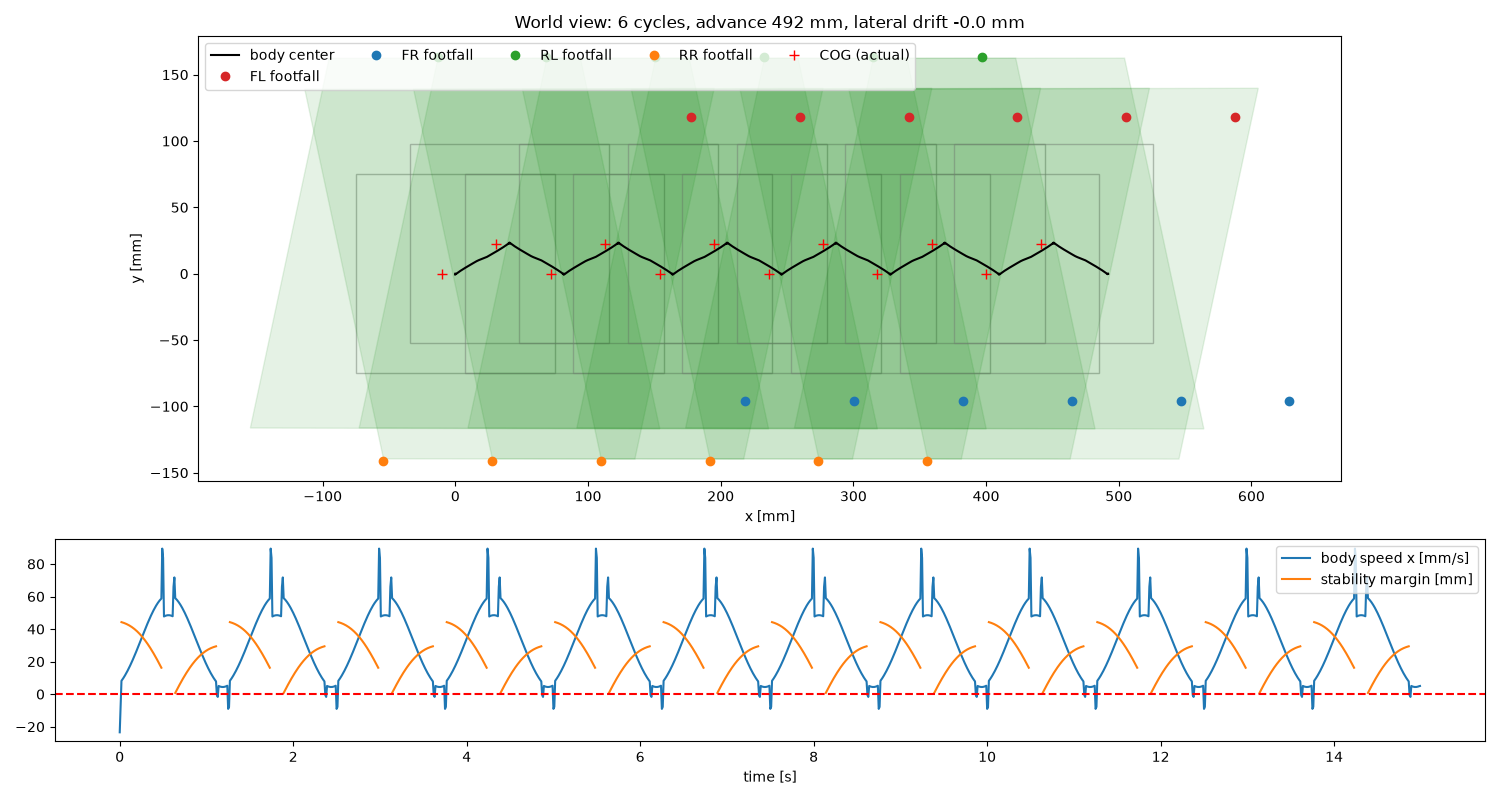
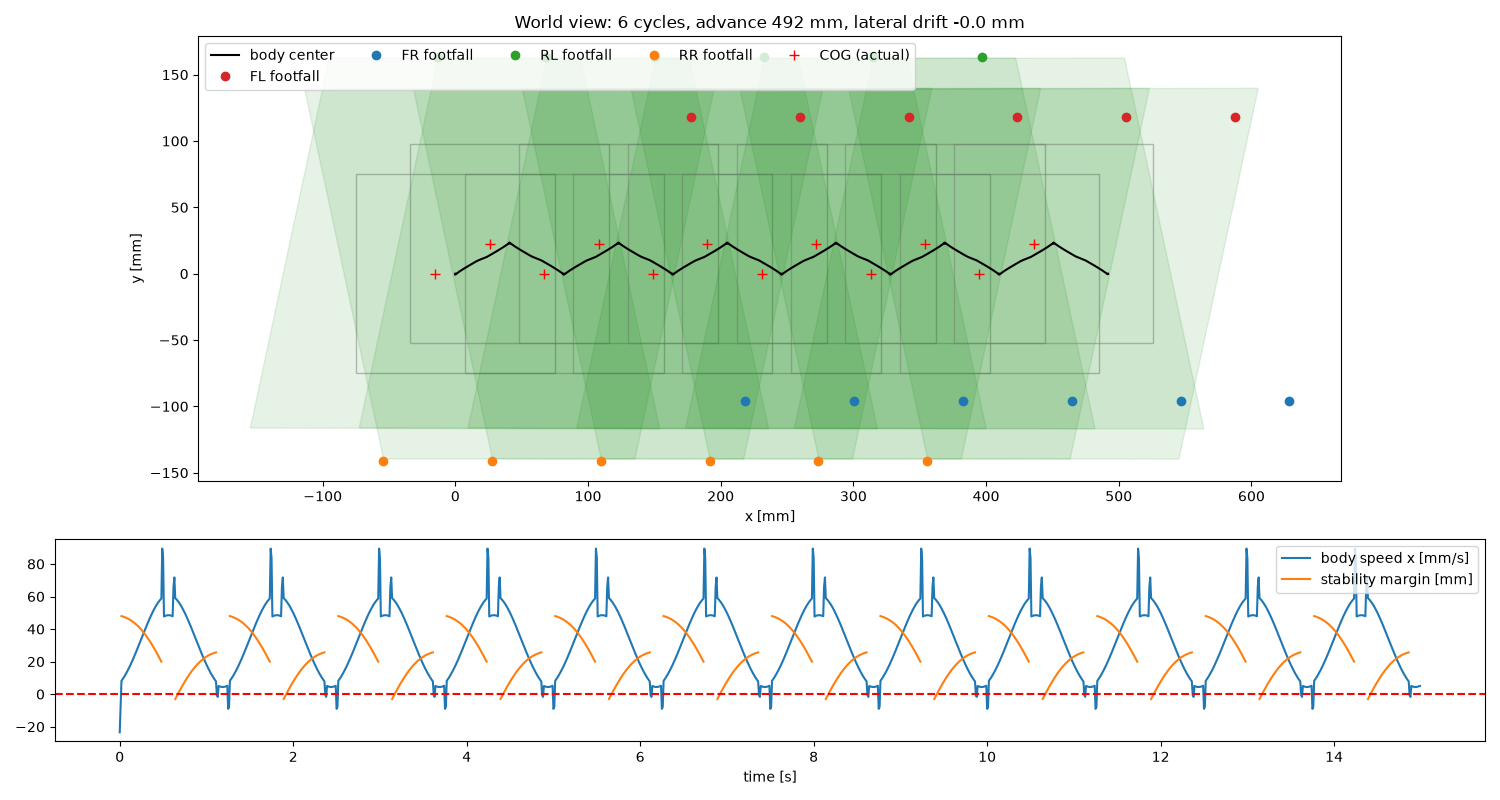
Simulate gait with COM bias x=-15mm

diff --git a/sim/gait_core.py b/sim/gait_core.py
@@ -10,7 +10,7 @@ KNEE_LIFT = 48.0    # 足上げ [deg] (約43mm上がる)
 SWING_DUTY = 0.20
 BODY_SHIFT_X = 4.0  # 前後重心スライド量 [deg]
 BODY_SHIFT_Y = 7.0  # 左右重心スライド量 [deg]
-COM_BIAS_X = -10.0  # 実機の重心オフセット [mm] (マイナスで後方寄り)
+COM_BIAS_X = -15.0  # 実機の重心オフセット [mm] (マイナスで後方寄り)
 OFFSET = [0.00, 0.50, 0.25, 0.75]
 NAMES = ["FL", "FR", "RL", "RR"]
 
